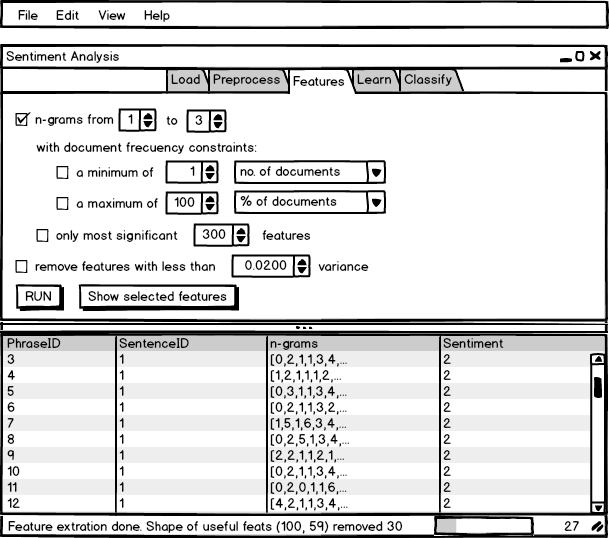
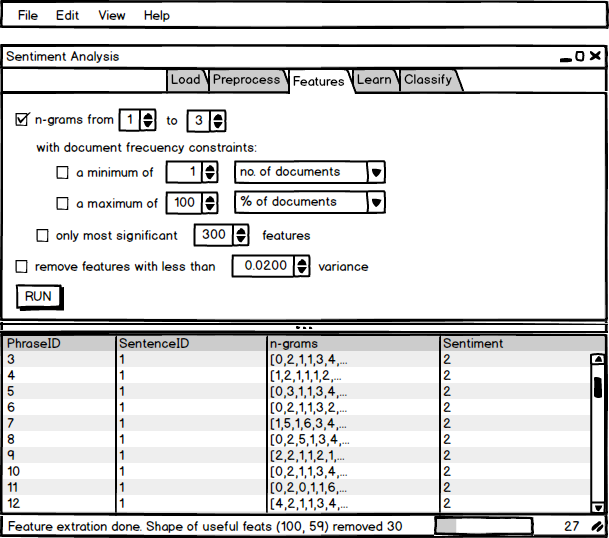
todos wireframes documentados

diff --git a/project/pfcsamr/gui.qml b/project/pfcsamr/gui.qml
@@ -600,9 +600,6 @@ ApplicationWindow {
                                 text: "RUN"
                                 onClicked: mainPfcsamrApp.features_button_run_on_clicked()
                             }
-                            Button {
-                                text: "Show selected features"
-                            }
                         }
 
                         RowLayout {

diff --git a/memoria/diseno-solucion.tex b/memoria/diseno-solucion.tex
@@ -116,7 +116,7 @@ La funcionalidad de los elementos siguen la especificación del \fullrefSRSUc{lo
 \begin{figure}[htbp]
 \centering
 \includegraphics[width=14cm]{gui-1-load}
-\caption{Wireframe pestaña LOAD}
+\caption{Wireframe de la pestaña LOAD}
 \label{fig:gui-1-load}
 \end{figure}
 
@@ -145,7 +145,7 @@ La funcionalidad de los elementos siguen la especificación del \fullrefSRSUc{pr
 \begin{figure}[htbp]
 \centering
 \includegraphics[width=12cm,clip=true,trim=0 0 0 38pt]{gui-2-preprocess}
-\caption{Wireframe pestaña PREPROCESS}
+\caption{Wireframe de la pestaña PREPROCESS}
 \label{fig:gui-2-preprocess}
 \end{figure}
 
@@ -153,12 +153,23 @@ La funcionalidad de los elementos siguen la especificación del \fullrefSRSUc{pr
 \newpage
 \subsection{Pestaña FEATURES}
 
-\todo{por aki}
+La tercera pestaña, \nombrebf{FEATURES} se utiliza para extraer características de los textos y vectorizar numéricamente los ejemplos del conjunto de entrenamiento (\autoref{fig:gui-3-features}).
+
+Contiene los siguientes elementos:
+\begin{enumerate}
+\item Casilla de verificación y selección de $n$-gramas, en un rango de límites inferior y superior indicados en los controles de selección numérico. Véase \autoref{subsec:n-bow}.
+\item Casillas de verificación para las restricciones de frecuencia documental de los $n$-gramas seleccionados, con límites mínimo y máximo, siendo las unidades el número de documentos o el porcentaje relativo.
+\item Casilla de verificación para seleccionar sólo el número especificado de $n$-gramas más representativos.
+\item Casilla de verificación y umbral para suprimir características con varianza despreciable (\autoref{subsec:reduccion-caracteristicas}).
+\item Botón de RUN para ejecutar la etapa.
+\end{enumerate}
+
+La funcionalidad de los elementos siguen la especificación del \fullrefSRSUc{features}.
 
 \begin{figure}[htbp]
 \centering
-\includegraphics[width=12cm,clip=true,trim=0 0 0 38pt]{gui-3-features}
-\caption{Wireframe pestaña FEATURES}
+\includegraphics[width=12cm]{gui-3-features}
+\caption{Wireframe de la pestaña FEATURES}
 \label{fig:gui-3-features}
 \end{figure}
 
@@ -166,10 +177,28 @@ La funcionalidad de los elementos siguen la especificación del \fullrefSRSUc{pr
 \newpage
 \subsection{Pestaña LEARN}
 
+La cuarta pestaña, \nombrebf{LEARN} se utiliza para extraer características de los textos y vectorizar numéricamente los ejemplos del conjunto de entrenamiento (\autoref{fig:gui-4-learn}).
+
+Contiene los siguientes elementos:
+\begin{enumerate}
+\item Selección de umbral de corte para aleatorio para el subconjunto de entrenamiento y el subconjunto de autoevaluación. Si se modifica este umbral de corte, o si se activa el interruptor de «volver a dividir», se volverá a dividir aleatoriamente el conjunto completo. En otro caso, se reutilizará la división última realizada.
+\item Pestañas de selección de modelo de aprendizaje. La pestaña activa es la que se utilizará para entrenar al pulsar el botón RUN, pudiendo seleccionar otra pestaña posteriormente para entrenar los demás modelos.
+\begin{enumerate}
+\item \codep{sklearn.MultinomialNB}. Incluye las opciones de suavizado de Laplace/Lidstone (0.00--1.00), y la opción de aprender las probabilidades a priori del conjunto de entrenamiento o bien aplicar una distribución de probabilidad a priori uniforme. Véase \fullref{subsec:MultinomialNB}.
+\item \codep{sklearn.GaussianNB}. No tiene parámetros configurables (véase \fullref{subsec:GaussianNB}). 
+\item \codep{sklearn.LDA}. Como opciones, contiene la selección del algoritmo de resolución, a elegir entre: a) descomposición de valores singulares, b) mínimos cuadrados, c) descomposición de autovalores. Además de la opción de número de componentes para la función (1--3) y la opción de calcular la matriz de covarianzas. Véase \fullref{subsec:lda-qda}.
+\item \codep{sklearn.QDA} Incluye la opción 0.00--1.00 de ajuste del estimador de la covarianza. Por defecto: 0.04. Véase \autoref{subsec:lda-qda}.
+\item \codep{sklearn.LinearSVC}. Incluye como opciones: la casilla de verificación para resolver el problema primal en lugar del dual, y el número de iteraciones máximas, por defecto 100. Véase \fullref{subsec:svm}.
+\end{enumerate}
+\item Botón de RUN para ejecutar la etapa. Una vez entrenado, se autoevalúa con el subconjunto de autoevaluación del umbral de corte indicado y se muestra la puntuación en la etiqueta SCORE presente al final de cada pestaña de modelo de aprendizaje.
+\end{enumerate}
+
+La funcionalidad de los elementos siguen la especificación del \fullrefSRSUc{learn}.
+
 \begin{figure}[htbp]
 \centering
-\includegraphics[width=12cm,clip=true,trim=0 0 0 38pt]{gui-4-learn}
-\caption{Wireframe pestaña LEARN}
+\includegraphics[width=12cm]{gui-4-learn}
+\caption{Wireframe de la pestaña LEARN}
 \label{fig:gui-4-learn}
 \end{figure}
 
@@ -177,24 +206,33 @@ La funcionalidad de los elementos siguen la especificación del \fullrefSRSUc{pr
 \newpage
 \subsection{Pestaña CLASSIFY}
 
+La quinta y última pestaña, \nombrebf{CLASSIFY} sirve para clasificar el conjunto de prueba \path{test.tsv} (véase la \autoref{fig:gui-5-classify}).
+
+Contiene los siguientes elementos:
+\begin{enumerate}
+\item Botón para desplegar el selector de fichero.
+\item Etiqueta de texto para visualizar la ruta al fichero de prueba.
+\item Casilla de verificación para habilitar la carga parcial, con el selector numérico del número de primeras líneas para la carga parcial.
+\item Botón de carga, que realiza el \fullrefSRSUc{loadtesttsv}. Al completar, se habilita el siguiente.
+\item Botón de preprocesado del conjunto de prueba en los mismos términos que el preprocesado durante el entrenamiento. Al completar, se habilita el siguiente.
+\item Botón de extracción de características del conjunto de prueba en los mismos términos que la extracción y selección de características durante el entrenamiento. Al completar, se habilita el siguiente.
+\item Botón de clasificación del conjunto de prueba, usando las predicciones proporcionadas por el modelo aprendido indicado en el selector de modelos. Realiza el \fullrefSRSUc{classify}.
+\item Botón para exportar los resultados clasificados. Realiza el \fullrefSRSUc{savesubmissioncsv}.
+\end{enumerate}
+
+La funcionalidad de los elementos siguen la especificación de los casos de uso mencionados (\refSRSUc{loadtesttsv}, \refSRSUc{classify} y \refSRSUc{savesubmissioncsv}).
+
 \begin{figure}[htbp]
 \centering
 \includegraphics[width=12cm,clip=true,trim=0 0 0 38pt]{gui-5-classify}
-\caption{Wireframe pestaña CLASSIFY}
+\caption{Wireframe de la pestaña CLASSIFY}
 \label{fig:gui-5-classify}
 \end{figure}
 
 
 \section{Clases}
 
-A continuación se describen las clases principales necesarias.
-
-\subsection{\codep{pfcsamr.gui.MainPfcsamrApp}}
-
-\subsection{\codep{pfcsamr.orchestrator.Orchestrator}}
-
-\subsection{\codep{pfcsamr.orchestrator.MyTableModel}}
-
+A continuación se describen las clases principales necesarias. Se puede ver un resumen completo de las clases en la \fullref{fig:classes} en la página \pageref{fig:classes}.
 
 \begin{landscape}
 \begin{figure}[htbp]
@@ -205,37 +243,9 @@ A continuación se describen las clases principales necesarias.
 \end{figure}
 \end{landscape}
 
+\subsection{\codep{pfcsamr.gui.MainPfcsamrApp}}
 
+\subsection{\codep{pfcsamr.orchestrator.Orchestrator}}
 
-\section{Secuencias}
+\subsection{\codep{pfcsamr.orchestrator.MyTableModel}}
 
-
-
-
-\resizebox{0.5\textwidth}{!}{\input{diag1.puml.tex}}
-
-\ldots
-
-\includegraphics[width=\textwidth]{bpmn-entrenamiento}
-
-\ldots
-
-\includegraphics[width=14cm]{gui-1-load}
-
-\ldots
-
-\includegraphics[width=12cm]{gui-2-preprocess}
-
-\ldots
-
-\includegraphics[width=12cm]{gui-3-features}
-
-\ldots
-
-\includegraphics[width=12cm]{gui-4-learn}
-
-\ldots
-
-\includegraphics[width=12cm]{gui-5-classify}
-
-\ldots

diff --git a/memoria/inv-ml.tex b/memoria/inv-ml.tex
@@ -195,6 +195,7 @@ La solución al ejercicio la calculamos en el \autoref{lst:vocab-feat-2BOW}.
 
 \FloatBarrier
 \subsection{Saco de $n$-gramas (n-BOW)}
+\label{subsec:n-bow}
 
 Las técnicas explicadas anteriormente se pueden extender a cualquier número de $n$-gramas. Mostramos un ejemplo en el \autoref{lst:scikit-ngramas}, contando unigramas, bigramas y trigramas.
 
@@ -307,6 +308,7 @@ La manera de combinar varios extractores de características es concatenar los v
 
 \FloatBarrier
 \subsection{Reducción de características \emph{(feature selection)}}
+\label{subsec:reduccion-caracteristicas}
 
 Si nos encontramos con un espacio vectorial demasiado grande, podemos ir eliminando aquellas características que no aportan gran información o que no sirven para diferenciar la clase a la que pertenecen los ejemplos, para mejorar el rendimiento tanto en tiempo como en espacio de memoria. A este procedimiento se le llama \nombrebf{reducción de características} o \emph{feature selection}\index{feature selection@\emph{feature selection}}.
 
@@ -385,6 +387,7 @@ Supongamos un clasificador binario:
 
 \FloatBarrier
 \subsection{Naïve Bayes multinomial}
+\label{subsec:MultinomialNB}
 
 Éste es un clasificador de los llamados estadísticos o probabilísticos. En la fase de aprendizaje supervisado de este clasificador \citep{Jurafsky2015}:
 \begin{itemize}
@@ -517,6 +520,7 @@ MultinomialNB(alpha=1.0, class_prior=None, fit_prior=True)
 
 \FloatBarrier
 \subsection{Naïve Bayes Gausiano}
+\label{subsec:GaussianNB}
 
 Este modelo es idéntico al modelo de predicción en Naïve Bayes multinomial, con la diferencia de que se puede aplicar en datos con variables continuas \citep[Naive Bayes classifier]{wikipedia-es}. Se asume que la variable se distribuye en una curva gausiana, entonces se calcula la media $\mu_c$ y la varianza $\sigma^2_c$ de cada característica $x_i$ en los ejemplos de cada clase $c$, y se toma como valor de verosimilitud el siguiente:
 \begin{equation}
@@ -525,6 +529,7 @@ Este modelo es idéntico al modelo de predicción en Naïve Bayes multinomial, c
 
 \FloatBarrier
 \subsection{Análisis de discriminante lineal y cuadrático (LDA, QDA)}
+\label{subsec:lda-qda}
 
 La técnica de \nombrebf{análisis del discriminante lineal}\index{discriminante!lineal} o \nombrebf{cuadrático}\index{discriminante!cuadrático} (\emph{Linear and quadratic discriminant analysis}, LDA, QDA)\index{LDA}\index{QDA} es una técnica que permite reducir el número de características que sean irrelevantes o que contribuyan poco a la diferenciación de las clases \citep[Discriminant function analysis]{wikipedia-en}.
 
@@ -577,6 +582,7 @@ LDA(n_components=None, priors=None, shrinkage=None, solver='svd',
 
 \FloatBarrier
 \subsection{Máquinas de vectores de soporte (SVM)}
+\label{subsec:svm}
 
 Las \nombrebf{máquinas de vectores de soporte}\index{vectores de soporte!máquinas de} (\emph{Support Vector Machines}, SVM)\index{SVM}\index{machines@\emph{machines}}\index{machines!support vector@\emph{support vector}} son algoritmos de aprendizaje supervisado que se pueden usar para clasificación, regresión y detección de valores atípicos\index{valor atípico} \emph{(outliers)}\index{outlier@\emph{outlier}} \citep{Pedregosa2011}.
 

diff --git a/memoria/introduccion.tex b/memoria/introduccion.tex
@@ -92,6 +92,8 @@ Aun con todo eso, la delegación israelita de Zara tuvo la ocurrencia ---con una
 
 Es por eso que este trabajo se enfoca en cómo procesar los textos para obtener las reglas necesarias para determinar si un comentario es o no positivo, y realizar una aplicación para comprobar su eficacia con un caso concreto. El proyecto se utilizará para su aplicación en la participación en el concurso de \nombre{kaggle:} ``Sentiment Analysis on Movie Reviews'',\footnote{\url{https://www.kaggle.com/c/sentiment-analysis-on-movie-reviews}} sobre la base de datos de críticas de cine de \nombre{Rotten Tomatoes}.\footnote{\url{http://www.rottentomatoes.com}}
 
+\input{objetivos}
+
 \section{Estructura de la memoria}
 
 Aparte de la \fullref{part:introduccion-objetivos}, la memoria del proyecto se divide en dos partes principalmente:

diff --git a/memoria/estructura-principal.tex b/memoria/estructura-principal.tex
@@ -7,8 +7,6 @@
 
 \input{introduccion}
 
-\input{objetivos}
-
 \input{planificacion}
 
 
